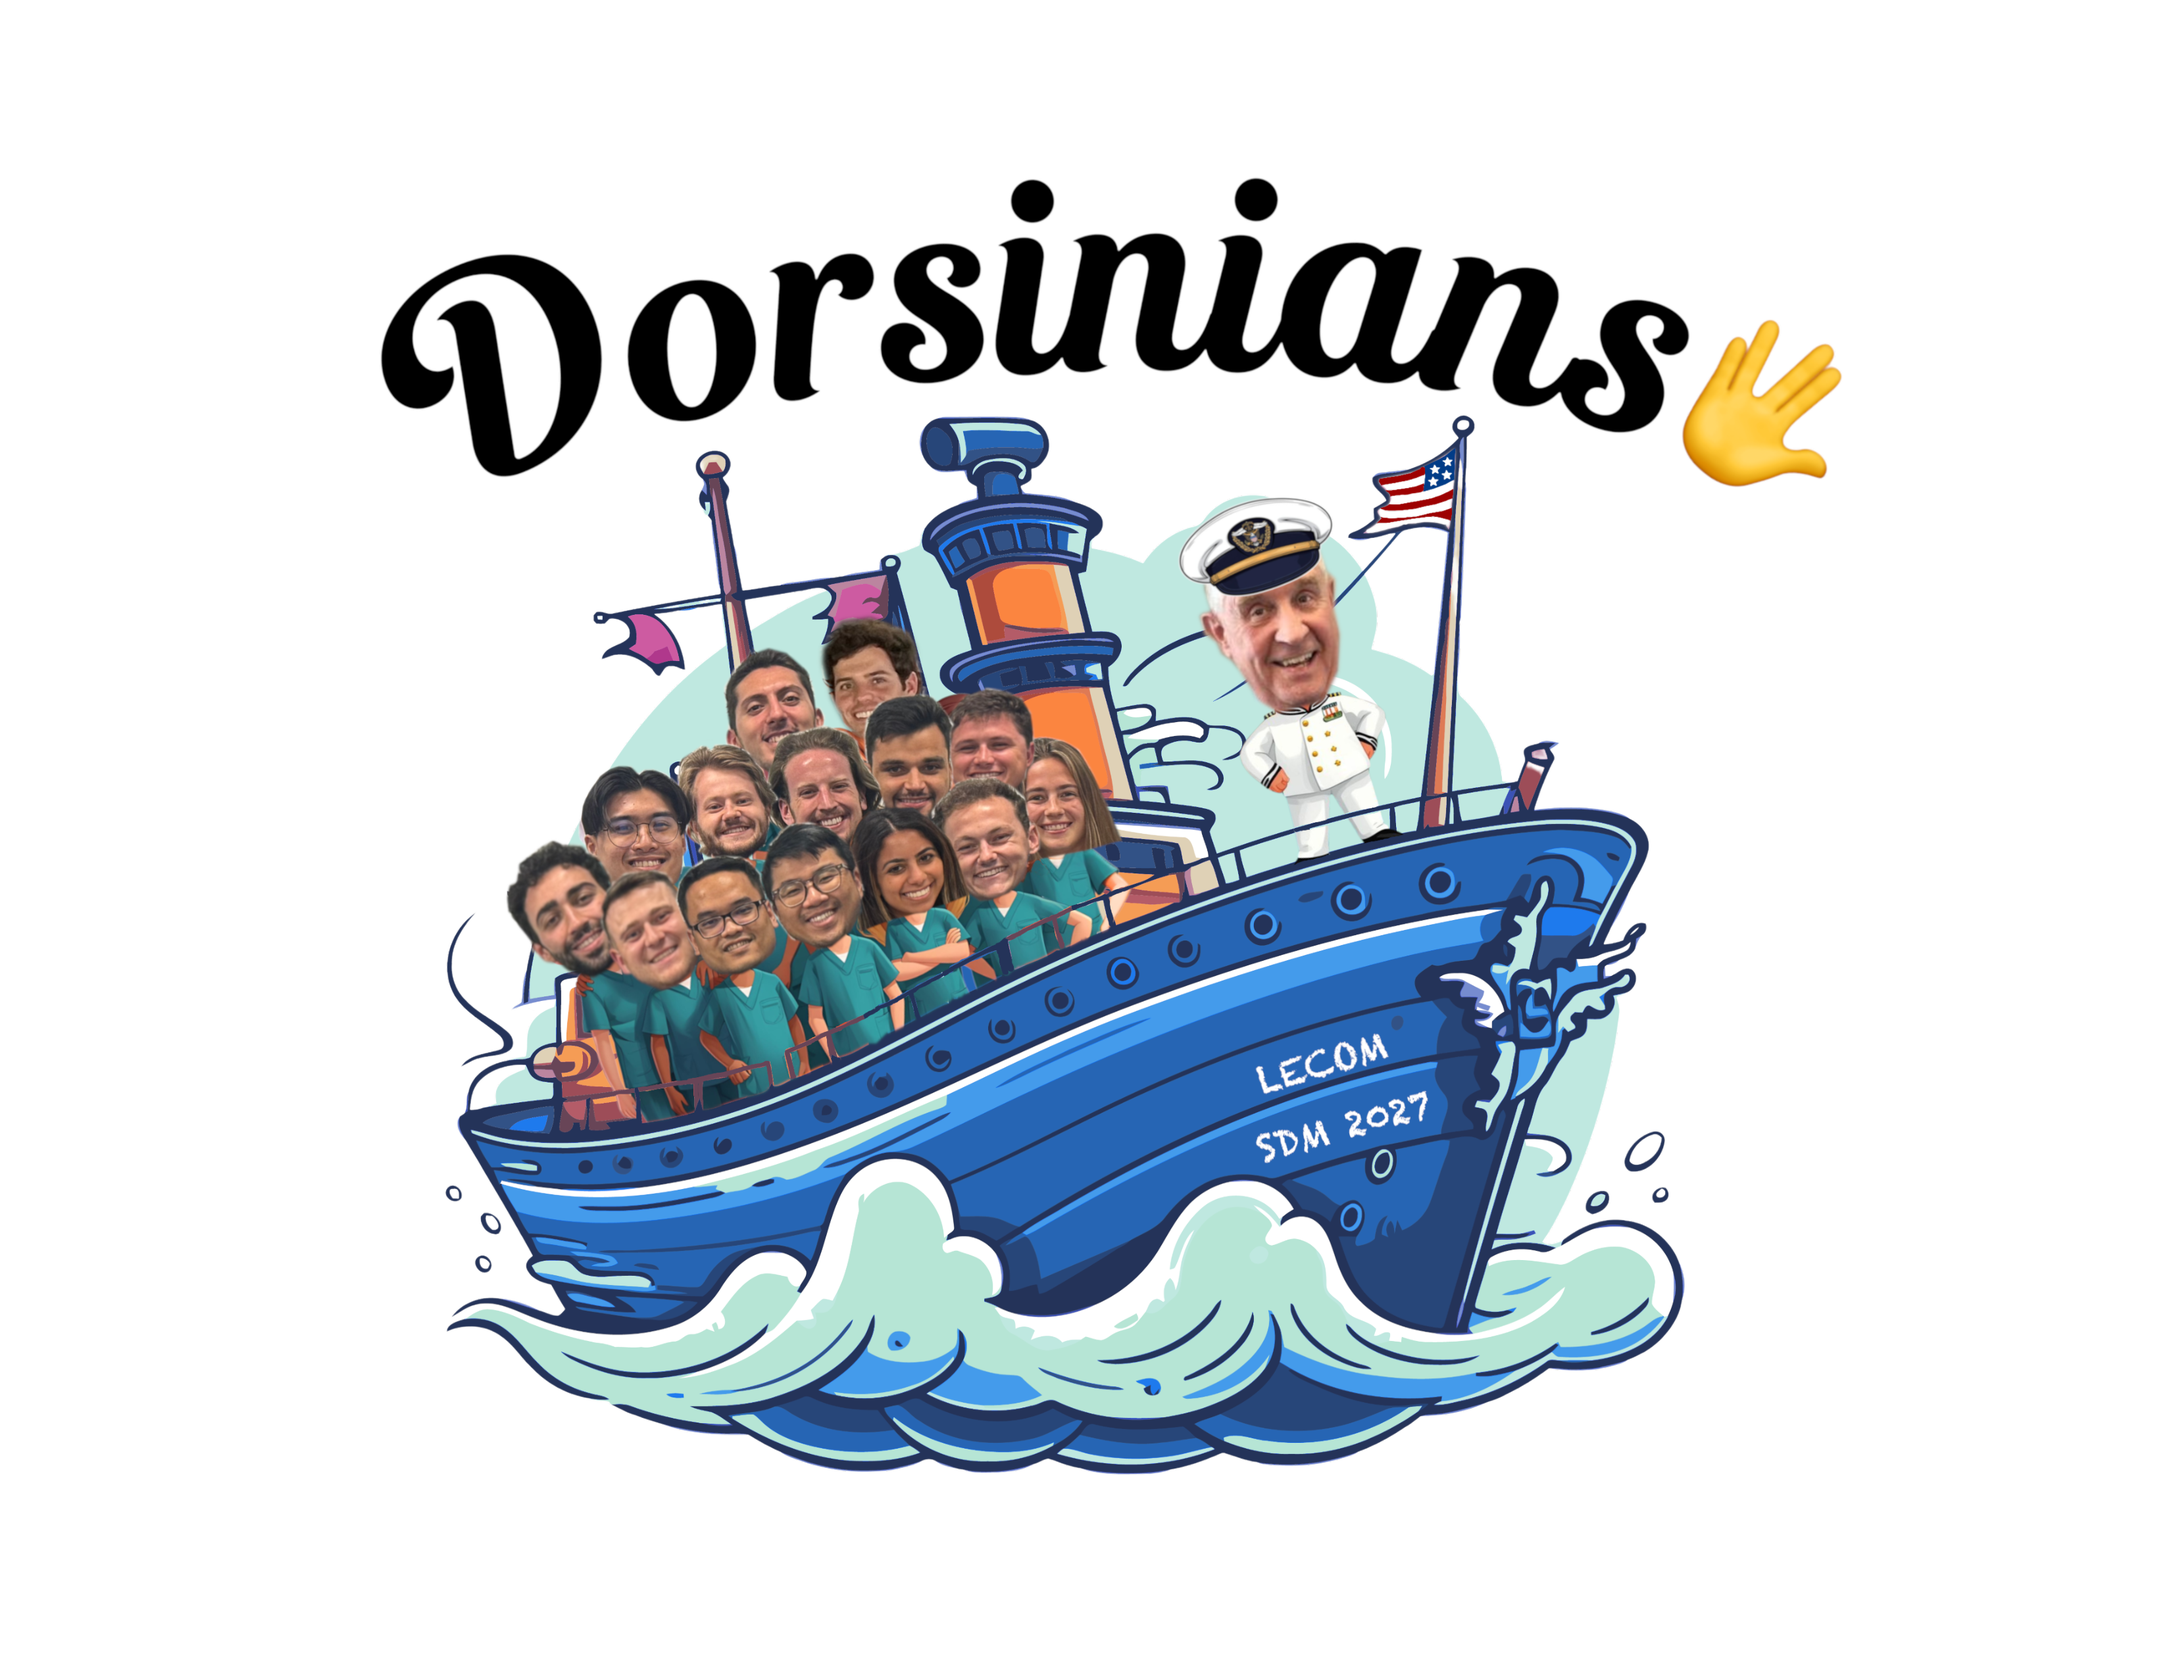
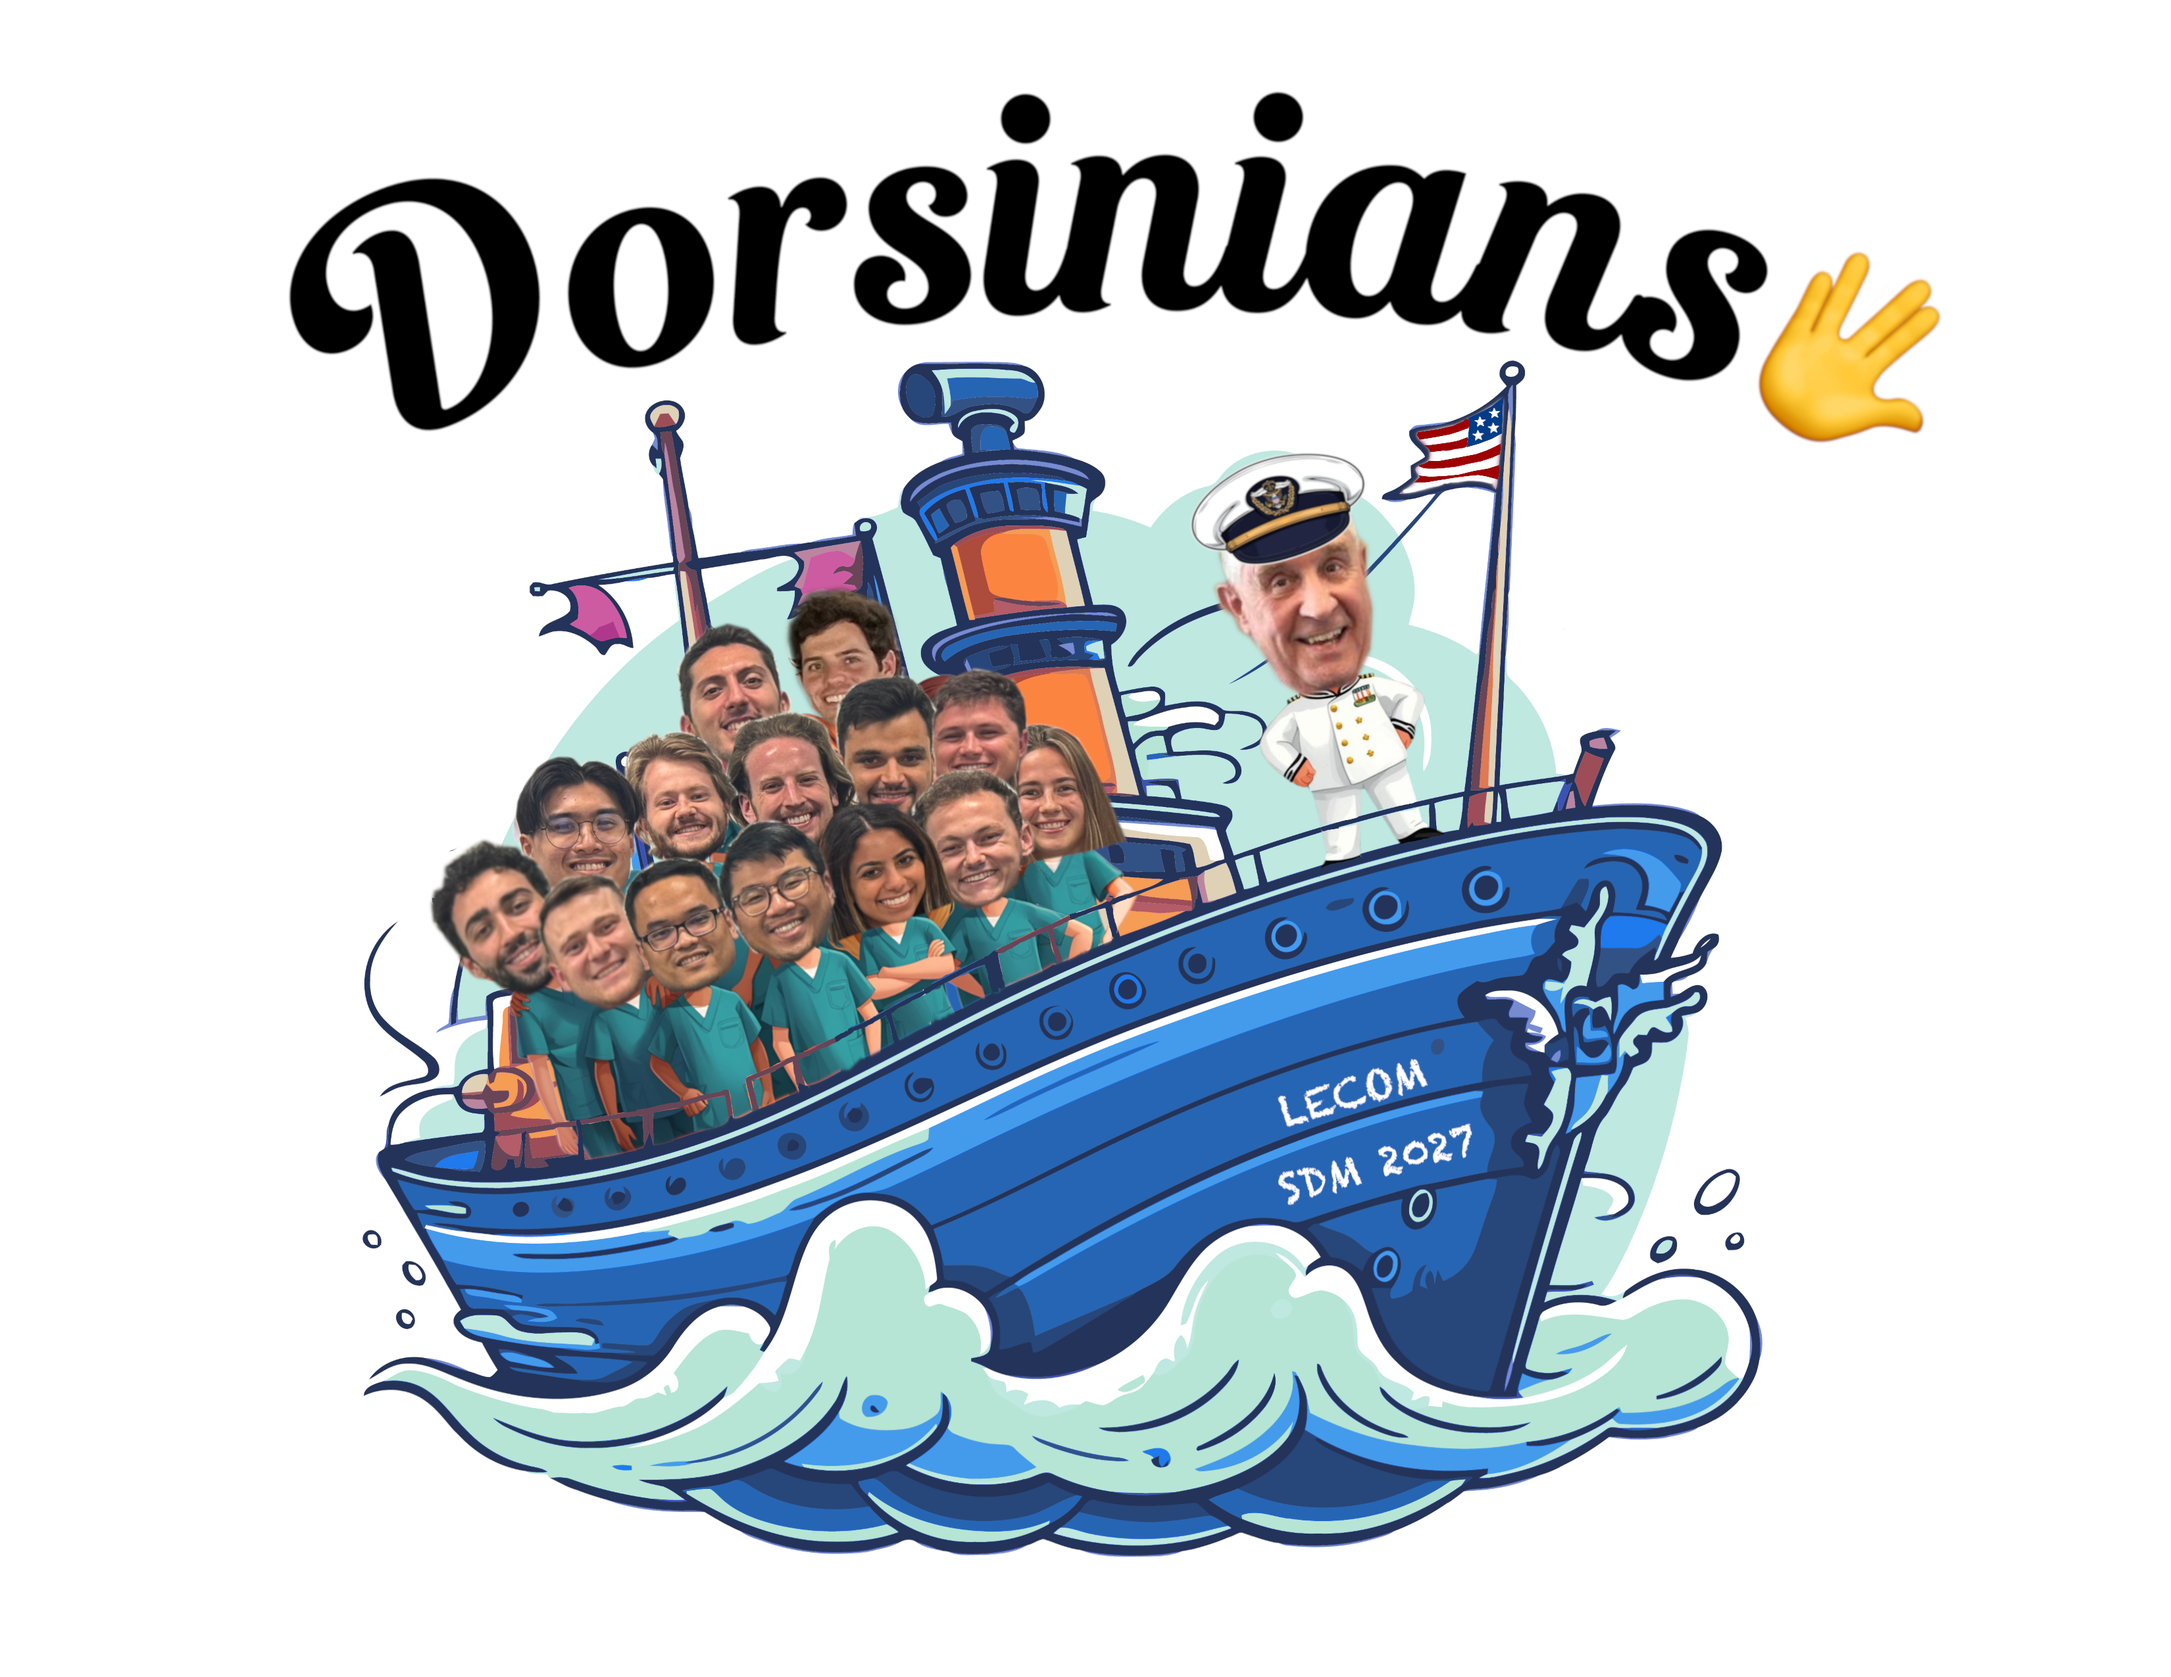
Add files via upload

diff --git a/index.html b/index.html
@@ -10,7 +10,7 @@
     * { box-sizing: border-box; }
     body { margin: 0; min-height: 100vh; display: flex; flex-direction: column; align-items: center; justify-content: flex-start; padding: 40px 28px 0;
       background: radial-gradient(ellipse at 8% 10%, rgba(103,169,255,.42), transparent 48%), radial-gradient(ellipse at 92% 25%, rgba(185,156,250,.35), transparent 48%), radial-gradient(ellipse at 45% 95%, rgba(112,220,203,.28), transparent 48%), linear-gradient(130deg,#f0f6ff,#e6eefb); background-attachment: fixed; }
-    main { margin-top: auto; margin-bottom: 48px; flex-shrink: 0; width: min(100%, 1050px); padding: 42px; border: 1px solid rgba(255,255,255,.85); border-radius: 32px; background: rgba(255,255,255,.25); box-shadow: 0 24px 70px rgba(54,83,132,.10), inset 0 1px 0 rgba(255,255,255,.9); backdrop-filter: blur(24px); -webkit-backdrop-filter: blur(24px); }
+    main { margin-top: auto; margin-bottom: 48px; flex-shrink: 0; width: min(100%, 1250px); padding: 42px; border: 1px solid rgba(255,255,255,.85); border-radius: 32px; background: rgba(255,255,255,.25); box-shadow: 0 24px 70px rgba(54,83,132,.10), inset 0 1px 0 rgba(255,255,255,.9); backdrop-filter: blur(24px); -webkit-backdrop-filter: blur(24px); }
     header { margin-bottom: 34px; }
     .eyebrow { display: inline-block; padding: 7px 12px; border: 1px solid rgba(255,255,255,.85); border-radius: 999px; background: rgba(255,255,255,.5); font-size: 18px; font-weight: 700; letter-spacing: .1em; text-transform: uppercase; color: #54708e; }
     .identity { display: flex; align-items: center; gap: 14px; }
@@ -22,7 +22,7 @@
     .hero-tooth { width: 90px; height: 100px; object-fit: contain; flex-shrink: 0; overflow: visible; fill: none; stroke: none; filter: drop-shadow(0 8px 8px rgba(54,93,151,.2)); }
     @media (max-width: 480px) { .hero-tooth { width: 54px; height: 68px; } .title-row { gap: 12px; } }
     .intro { margin: 0; color: #536b86; font-size: 16px; line-height: 1.6; }
-    nav { display: grid; grid-template-columns: repeat(4,minmax(0,1fr)); gap: 20px; }
+    nav { display: grid; grid-template-columns: repeat(5,minmax(0,1fr)); gap: 20px; }
     .tool { --accent: #2563eb; --flash: rgba(37,99,235,.28); --tint: rgba(111,170,255,.2); position: relative; overflow: hidden; display: flex; flex-direction: column; min-height: 190px; padding: 26px;
       text-decoration: none; color: inherit; border: 1px solid rgba(255,255,255,.95); border-radius: 24px;
       background: linear-gradient(145deg,rgba(255,255,255,.78),rgba(255,255,255,.36)); box-shadow: 0 10px 26px rgba(48,76,117,.07), inset 0 1px 0 white;
@@ -37,6 +37,7 @@
     .screening { --accent: #0f766e; --flash: rgba(15,118,110,.28); --tint: rgba(70,202,182,.22); }
     .composite { --accent: #7c3aed; --flash: rgba(124,58,237,.28); --tint: rgba(174,132,247,.22); }
     .recall { --accent: #b45309; --flash: rgba(180,83,9,.28); --tint: rgba(251,191,36,.22); }
+    .medical { --accent: #be185d; --flash: rgba(190,24,93,.28); --tint: rgba(244,114,182,.22); }
     .icon { position: relative; width: 50px; height: 50px; display: grid; place-items: center; border: 1px solid rgba(255,255,255,.9); border-radius: 15px; color: var(--accent); background: linear-gradient(145deg,rgba(255,255,255,.9),var(--tint)); box-shadow: 0 5px 12px rgba(48,76,117,.06), inset 0 1px 0 white; margin-bottom: 24px; }
     svg { width: 26px; height: 26px; fill: none; stroke: currentColor; stroke-width: 1.6; stroke-linecap: round; stroke-linejoin: round; }
     h2 { position: relative; color: var(--accent); font-size: 20px; line-height: 1.35; margin: 0 0 10px; letter-spacing: -.3px; }
@@ -72,6 +73,10 @@
       <a class="tool recall" href="https://longton810.github.io/recall/">
         <span class="icon" aria-hidden="true"><svg viewBox="0 0 24 24"><rect x="3" y="5" width="18" height="16" rx="3"/><path d="M7 3v4M17 3v4M3 10h18M9 16l2 2 4-4"/></svg></span>
         <h2>Recall</h2>
+      </a>
+      <a class="tool medical" href="https://longton810.github.io/medicalconsultation/">
+        <span class="icon" aria-hidden="true"><svg viewBox="0 0 24 24"><rect x="5" y="4" width="14" height="17" rx="2"/><rect x="9" y="2" width="6" height="4" rx="1"/><path d="M12 9v6M9 12h6M8 18h8"/></svg></span>
+        <h2>Medical consult</h2>
       </a>
     </nav>
   </main>

diff --git a/README.md b/README.md
@@ -1,6 +1,6 @@
 # Dental Tools homepage
 
-The homepage is a single `index.html` file with all styling included. It links to your existing Odontogram, NPS, and Composite apps.
+The homepage uses `index.html` with all styling included, plus `tooth-avatar.png` and `Dorsinians.png`. Keep these files together and upload all three to GitHub. It links to your existing Odontogram, NPS, Composite, Recall, and Medical consult apps.
 
 Open `index.html` locally to preview it.
 
@@ -9,3 +9,5 @@ To use it as your main GitHub Pages homepage, put `index.html` in the root of a 
 If that repository already contains a homepage, replacing its `index.html` will replace the existing homepage. You can also upload this file to a separate repository and use that repository's GitHub Pages address.
 
 To change the Firefox tab name, edit the `<title>` near the top of `index.html`.
+
+Medical consult links to https://longton810.github.io/medicalconsultation/. Publish the MedicalConsultation folder contents in a repository named `medicalconsultation`, or change the button link to match your repository name.
